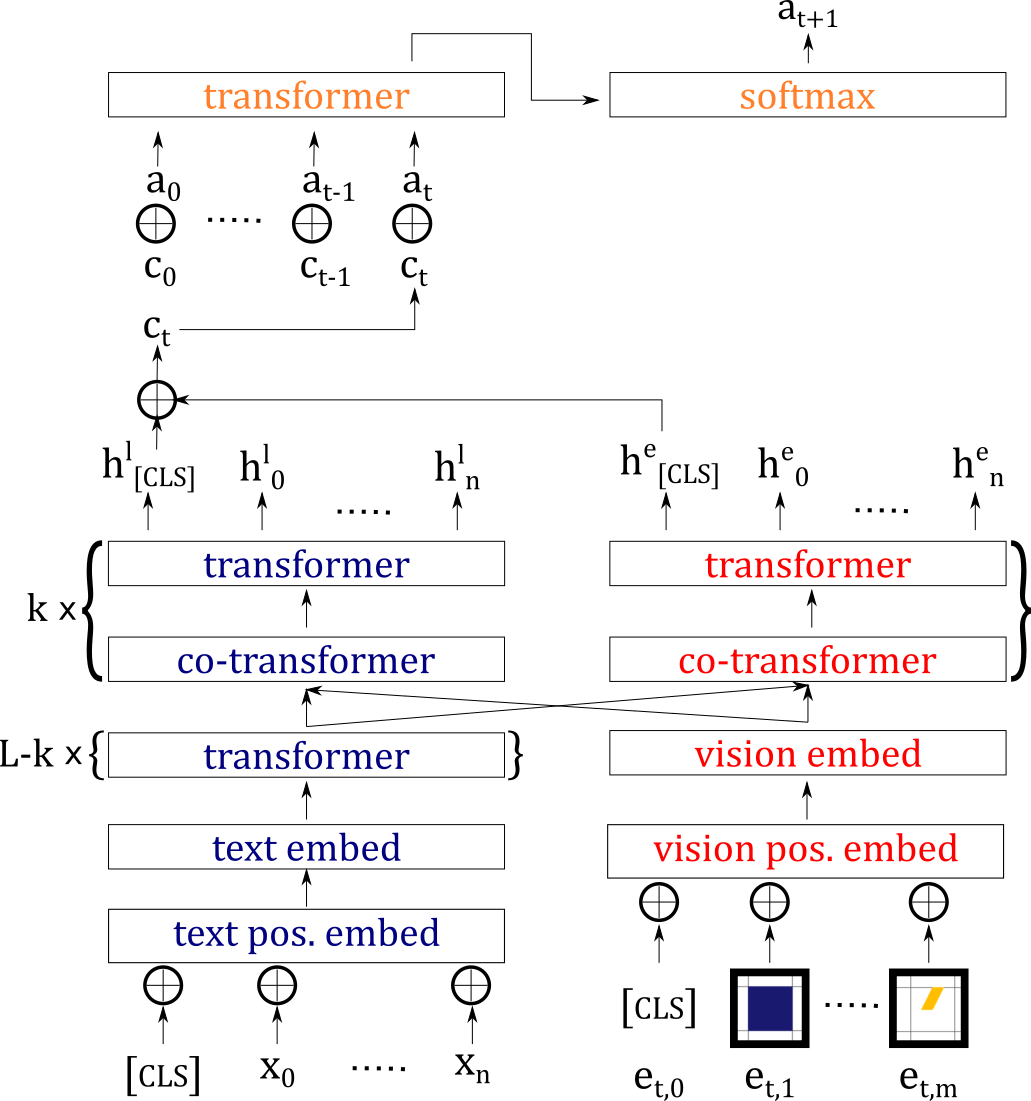
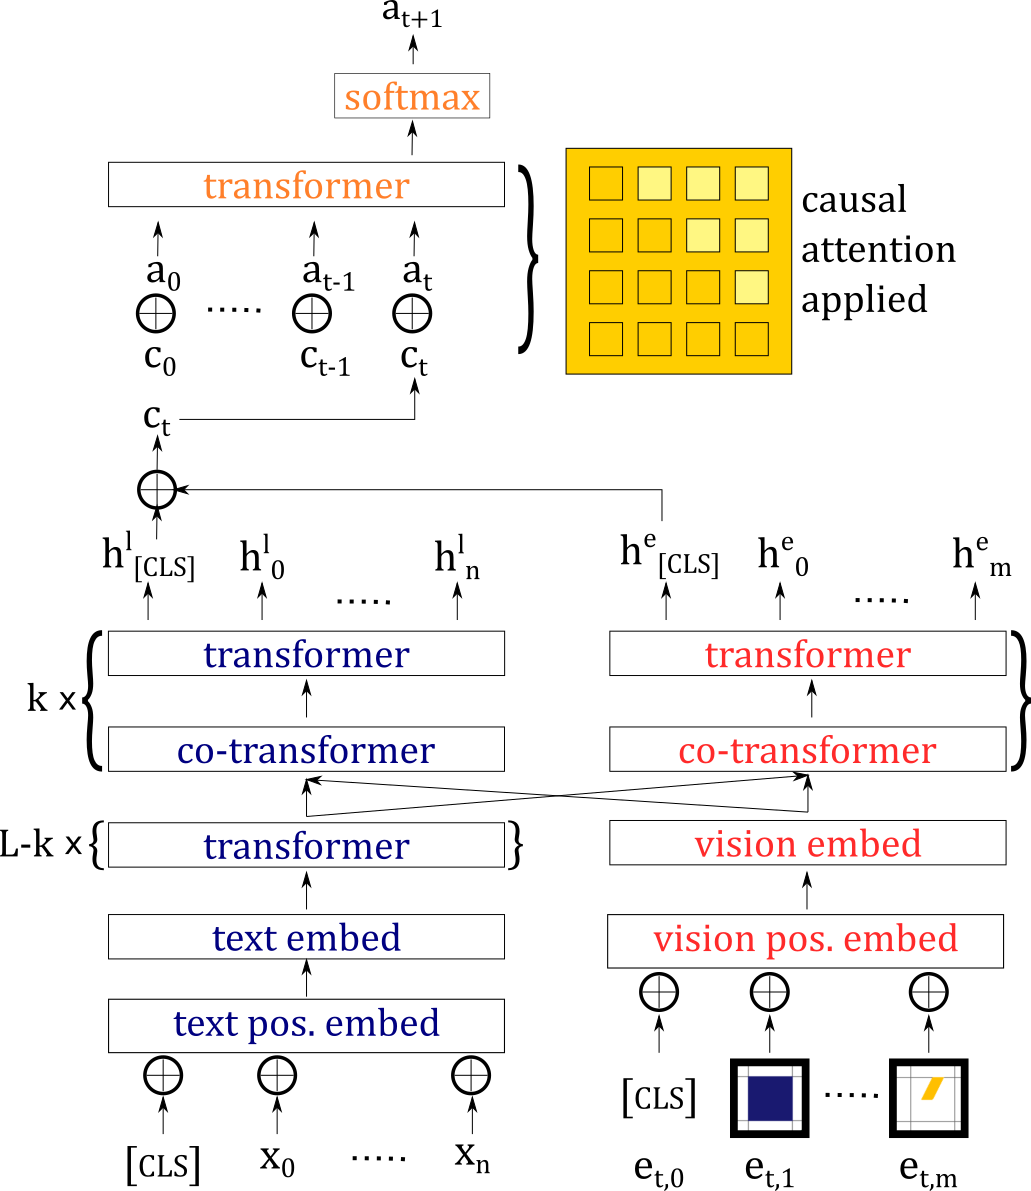
Architecture and baseline

diff --git a/emnlp2021.tex b/emnlp2021.tex
@@ -26,6 +26,8 @@
 \usepackage{microtype}
 \input{paper_library.tex}
 
+\usepackage{cleveref}
+\usepackage{tabularx, booktabs}
 
 % If the title and author information does not fit in the area allocated, uncomment the following
 %
@@ -134,17 +136,6 @@ But, their pre-training scheme relies on predicting an action for a given enviro
 Our approach only relies on aligning commands to environments in which they are relevant, which is much less laborious to annotate.
 %
 
-{\color{red}czw re the above: gSCAN is a dataset of commands and environments where execution is possible. Room-to-Room is a dataset of commands and executions. 
-%
-Can we say that creating a dataset like Room-to-Room is really that much more laborious? 
-%
-Moreover, in practice, gSCAN actually collects the executions for each command as well. 
-%
-And can we really say that laborious annotation is a downside of \citet{Hao2020TowardsLA} given that datasets like Room-to-Room and others already exist?
-%
-Instead, what if we focused on our architecture and our investigation into composition?}
-%
-
 \subsection{Transformers for Vision}
 Our model takes both language and visual features as input, and thus builds on the work of \citep{LuViLBERT2019, tan-bansal-2019-lxmert, LiVisualBert2019}.
 
@@ -163,9 +154,87 @@ We collect a new dataset, grounded SCAN Human (\TODO name), which augments the d
 
 
 \section{Model Architecture}
-We present our own simple planner to see if we can improve on the baseline given in \cite{ruis2020benchmark}.
+The training data $D=\{(\mathbf{x}_i, E_i) \}_{i=1}^{i=|D|}$ consists of natural language commands $\mathbf{x}$ paired with an execution $E$. 
+%
+Each execution $E$ is a tuple of a sequence, $\mathbf{a}$, with $T$ actions and a sequence, $\mathbf{e}$, with $T+1$ environments, where action $\mathbf{a}_t$ results in state  $\mathbf{e}_{t+1}$. 
+%
+Each environment is represented by $m$ image patches: $\mathbf{e}_{t} = [e_{t,0}\cdots e_{t,m}]$.
+%
+
+\Cref{fig:training_model} shows our model as it makes a forward pass during training.
+%
+Consider an input command $\mathbf{x}_{i}$ of length $n$.
+%
+At each time-step $t$, the model receives patches $\mathbf{e}_t$ which represent the environment as it appears in that moment. 
+%
+The command and patches are embedded using a text and vision embedding layer, respectively. 
+%
+The embeddings are passed to stacked co-transformer and transformer layers, which alternately attend to one and both input modalities.
+%
+The topmost of the stacked transformers outputs a representation of the text as a sequence of $n$ hidden states, $[h_{[CLS]}^l,\cdots,h_{n}^l]$, and a representation of the image patches as $m$ hidden states $[h^e_{[CLS]}, \cdots, h^{e}_{m}]$.
+%
+A context vector $c_t$ is formed by concatenating $h_{[CLS]}^l$ and $h_{[CLS]}^e$.
+%
+This context vector is concatenated with the action taken at time $t$, $\mathbf{a}_t$.
+%
+The context vectors for all time-steps are concatenated with the actions for those time-steps to form a sequence $[\mathbf{a}_0\oplus \mathbf{c}_0, ..., \mathbf{a}_t \oplus \mathbf{c}_t]$.
+%
+This sequence is fed to a Transformer, which predicts $a_{t+1}$.
+%
+Decoding precedes auto-regressively.
+
+\begin{figure}
+\includegraphics[width=3in]{training_model.png}
+\caption{Predicting an action at time $t$. Our model consists of a text encoder (blue), a vision encoder (red), and an action decoder (orange). }
+\label{fig:training_model}	
+\end{figure}
 
 \section{RNN baseline}
+We compare our model with an RNN decoder to show the effectiveness (1) of our pre-training scheme and (2) of our Transformer-based action decoder.
+%
+
+We run two experiments.
+%
+In the first experiment, we first pre-trained our text and vision encoder using grounded masked language modeling. 
+%
+At inference time, the model receives the text and vision encoder create text embeddings, $[h_{[CLS]}^{l},...,h_{n}^{l}]$, for the input command and vision embeddings, $[h_{[CLS]}^{v},...,h_{m}^{v}]$ for the patches for the initial grid.
+%
+At each time-step $t$, the RNN receives these embeddings, as well as the image features of the environment at that time-step $e_t$.
+%
+A context vector $c_t$ is created by applying attention to the input embeddings, using the current features $e_t$ as the query vector:
+$$
+c_t = \text{Attn}(e_t, [h_{[CLS]}^{l},...,h_{n}^{l}; h_{[CLS]}^{v},...,h_{m}^{v}] )
+$$
+Given this context vector and the previous hidden state $h_{t}$ as input, the RNN produces a new hidden state $h_{t+1}$:
+$$
+h_{t+1} = RNN(h_t, c_t)
+$$
+The hidden state at time $t$, $h_t$ is fed through a fully-connected layer, and a softmax is used to produce a distribution over actions, from which the action $a_t$ is sampled:
+$$
+p(a_{t+1} \mid a_{0:t}, e_{0:t}, x) = \text{Softmax}(FC(h_{t+1}))
+$$
+\Cref{tab:baseline_results} shows the performance of our baseline.
+
+\begin{table}
+\begin{center}
+\begin{tabularx}{\columnwidth}{ l|cccc| }
+\toprule
+\multicolumn{1}{c}{} 
+& \multicolumn{2}{c}{w/ pre-training}  
+& \multicolumn{2}{c}{random}\\
+\midrule
+A: Random & --  & --  & -- &  -- \\
+B: Yellow Squares & --  & --  & -- &  -- \\
+C: Red Squares & --  & --  & -- &  -- \\
+D: Novel Direction & --  & --  & -- &  -- \\
+E: Relativity & --  & --  & -- &  -- \\
+F: Class Inference & --  & --  & -- &  -- \\
+\bottomrule
+\end{tabularx}
+\end{center}
+\caption{The performance of an RNN decoder using our pre-trained text-environment embeddings vs. using randomly initialized embeddings.}
+\label{tab:baseline_results}
+\end{table}
 
 \subsection{Results}
 
